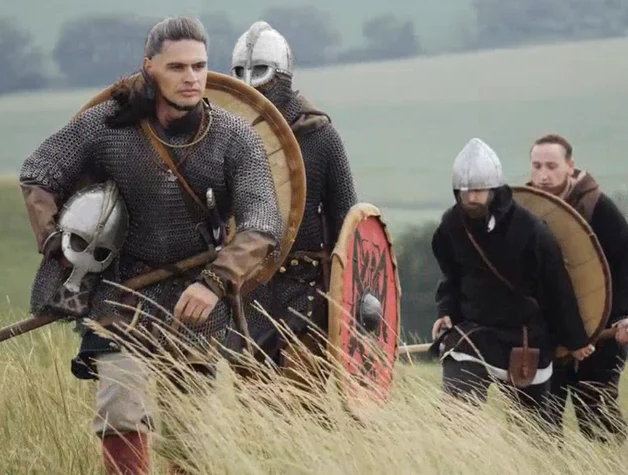
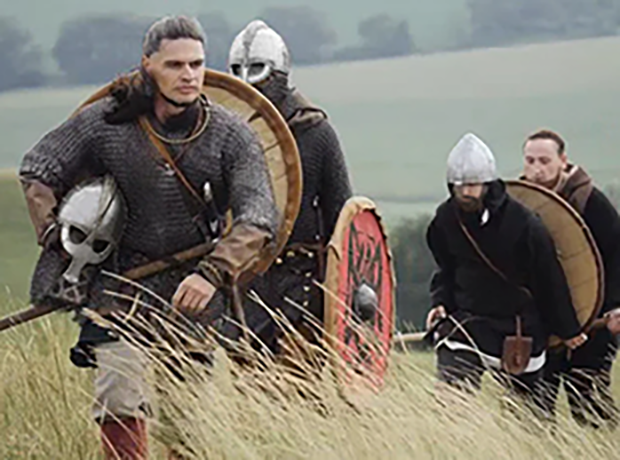
Add responsive layout of package images on packages page

diff --git a/packages.html b/packages.html
@@ -85,8 +85,7 @@
 
             <div class="seafaring-images">
                 <img src="assets/images/seafaring-shipbuilding.jpg"
-                    alt="Illustration of a Viking ship-building site on a beach, with two craftsmen working on a partially built longship."
-                    height="270" width="359">
+                    alt="Illustration of a Viking ship-building site on a beach, with two craftsmen working on a partially built longship." id="shipbuilding-image">
                 <table>
                     <tr>
                         <td><strong>Location</strong></td>
@@ -106,8 +105,7 @@
                     </tr>
                 </table>
                 <img src="assets/images/seafaring-rowing.jpg"
-                    alt="Contemporary image of a Viking longship being rowed along the seashore, passing a modern house in the distance."
-                    height="270" width="359">
+                    alt="Contemporary image of a Viking longship being rowed along the seashore, passing a modern house in the distance." id="rowing-image">
             </div>
             <br>
 
@@ -162,7 +160,7 @@
 
             <div>
                 <h3>Upcoming Seafaring Experiences:</h3>
-                <table>
+                <table class="package-dates-table">
                     <tr>
                         <td><strong>Tue 6 June 2023</strong></td>
                         <td>12 spaces</td>
@@ -211,8 +209,7 @@
 
             <div class="camp-images">
                 <img src="assets/images/camp-walking.webp"
-                    alt="Contemporary image of five men in Viking outfits walking through the countryside, carrying shields, weapons, and supplies."
-                    height="270" width="359">
+                    alt="Contemporary image of five men in Viking outfits walking through the countryside, carrying shields, weapons, and supplies." id="walking-image">
                 <table>
                     <tr>
                         <td><strong>Location</strong></td>
@@ -232,8 +229,7 @@
                     </tr>
                 </table>
                 <img src="assets/images/camp-two-cooks.jpg"
-                    alt="Contemporary image of two women in Viking outfits cooking over a barbecue in a Viking re-enactment camp, one roasting meat on a skewer and the other preparing a vegetable stew."
-                    height="270" width="359">
+                    alt="Contemporary image of two women in Viking outfits cooking over a barbecue in a Viking re-enactment camp, one roasting meat on a skewer and the other preparing a vegetable stew." id="cooks-image">
             </div>
             <br>
 
@@ -294,7 +290,7 @@
 
             <div>
                 <h3>Upcoming Camp Experiences:</h3>
-                <table>
+                <table class="package-dates-table">
                     <tr>
                         <td><strong>Tue 6 June 2023</strong></td>
                         <td>12 spaces</td>
@@ -342,8 +338,7 @@
 
             <div class="arts-crafts-images">
                 <img src="assets/images/arts-craftsman.jpg"
-                    alt="Contemporary image of a craftsman in plain Viking clothes working with twines whilst kneeling on some fur skins to construct what looks like a quiver for arrows."
-                    height="270" width="359">
+                    alt="Contemporary image of a craftsman in plain Viking clothes working with twines whilst kneeling on some fur skins to construct what looks like a quiver for arrows." id="craftsman-image">
                 <table>
                     <tr>
                         <td><strong>Location</strong></td>
@@ -363,8 +358,7 @@
                     </tr>
                 </table>
                 <img src="assets/images/arts-jewellery.jpg"
-                    alt="Image of a selection of Viking style jewellery made from iron and silver. Mostly strands twisted into bracelets with elaborate dragon head clasps."
-                    height="270" width="359">
+                    alt="Image of a selection of Viking style jewellery made from iron and silver. Mostly strands twisted into bracelets with elaborate dragon head clasps." id="jewellery-image">
             </div>
             <br>
 
@@ -424,7 +418,7 @@
 
             <div>
                 <h3>Upcoming Arts and Craft Experiences:</h3>
-                <table>
+                <table class="package-dates-table">
                     <tr>
                         <td><strong>Tue 6 June 2023</strong></td>
                         <td>12 spaces</td>

diff --git a/assets/css/style.css b/assets/css/style.css
@@ -237,7 +237,6 @@ h3 {
     font-family: Source Sans Pro, sans-serif;
     color: #402e32;
     padding: 20px;
-    padding-right: 33.33%;
     margin: 400px 25px 25px 25px;
     background-color: #fff8f0;
 }
@@ -304,31 +303,46 @@ td {
     flex-direction: row;
     padding: 10px;
     width: 100%;
-    height: auto;
 }
 
 #shipbuilding-image {
-    padding-left: 60px;
+    width: 100%;
+}
+
+#rowing-image {
+    width: 100%;
 }
 
 .camp-images {
     display: flex;
     justify-content: space-around;
+    flex-direction: row;
     padding: 10px;
     width: 100%;
-    height: auto;
+}
+
+#walking-image {
+    width: 100%;
+}
+
+#cooks-image {
+    width: 100%;
 }
 
 .arts-crafts-images {
     display: flex;
     justify-content: space-around;
+    flex-direction: row;
     padding: 10px;
     width: 100%;
-    height: auto;
 }
 
 #craftsman-image {
-    padding-left: 130px;
+    width: 100%;
+}
+
+#jewellery-image {
+    width: 100%;
 }
 
 .button {
@@ -750,7 +764,33 @@ footer a:hover {
         flex-direction: column;
         width: 100%;
     }
-}
+
+    .seafaring-images {
+        flex-direction: column;
+        align-items: center;
+    }
+
+    .camp-images {
+        flex-direction: column;
+        align-items: center;
+    }
+
+    .arts-crafts-images {
+        flex-direction: column;
+        align-items: center;
+    }
+
+    .package-image {
+        flex-direction: column;
+        align-items: center;
+        width: 100%;
+    }
+
+    .package-dates-table {
+        align-items: center;
+        margin: 0;
+        margin-top: 15px;
+    }
 
 /* For small screens sizes from 800px wide and down */
 @media screen and (max-width: 800px) {
@@ -802,4 +842,4 @@ footer a:hover {
     .submit-button {
         font-size: 60%;
     }
-}
+}}
